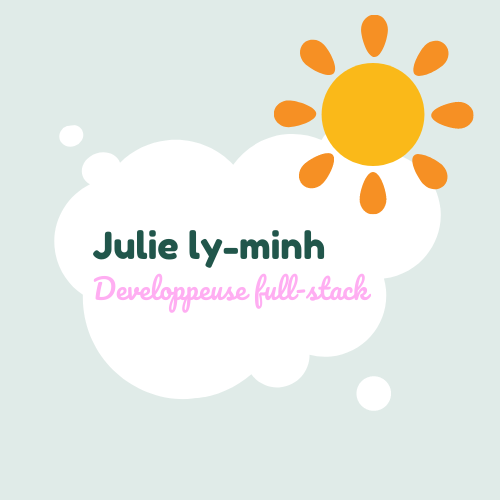
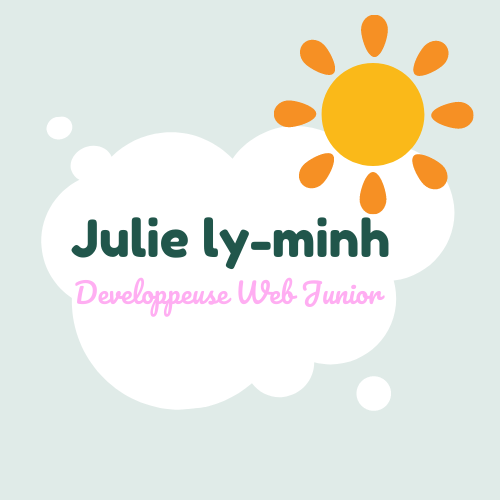
update cv

Changed region(s): [[0.06, 0.24, 0.93, 0.84], [0.48, 0.24, 0.66, 0.3], [0.81, 0.3, 0.84, 0.33]]

diff --git a/src/components/About.js b/src/components/About.js
@@ -35,17 +35,12 @@ export const About = () => {
           déjà à faire de l'integration et des fonctionnalités avec mes amis. Je
           n'ai jamais oublié cet hobby alors pourquoi pas en faire son nouveau métier...  */}
         </AboutSimpleText>
-        <AboutPoint>...</AboutPoint>
-
-        <AboutSubTitle> Ce que je sais faire</AboutSubTitle>
+   
         <AboutSimpleText>
           Cela fait depuis 2 ans que j'ai mis les pieds dans le développement
           web, j'ai commencé par de l'intégration HTML5 et CSS3, puis je me suis
           spécialisée sur le langage JavaScript. Je travaille notamment sur les
-          librairies ReactJs et NodeJs (express), j'ai également des
-          connaissances sur Angular6 et VueJs. J'ai des compétences sur le
-          Devops, je sais déployer mes prods avec Docker via CircleCi sur Heroku
-          ou Netlify.
+          librairies ReactJs et NodeJs (express).
         </AboutSimpleText>
       </AboutBloc>
       <Point>...</Point>
